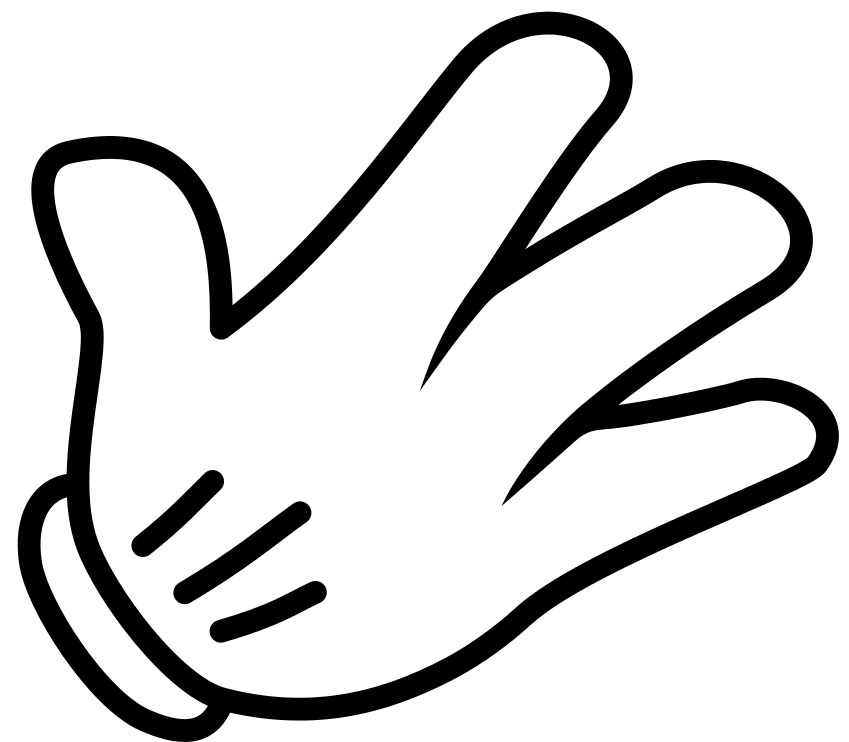
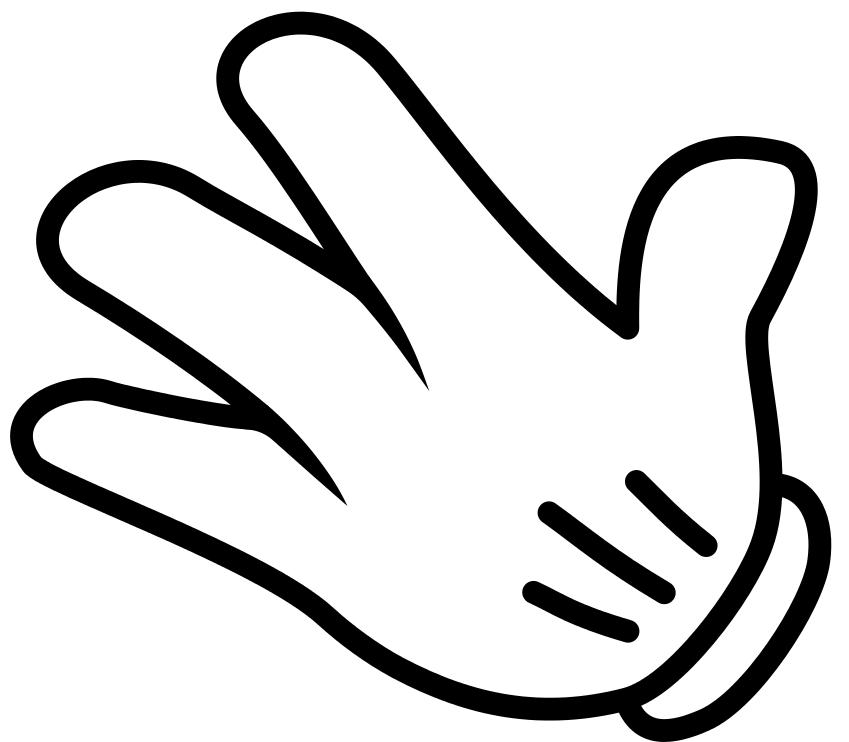
Add more UI elements
I've cleaned up the code and added some picture
elements that also help the games readability when
playing.

I've also changed the layout a little bit.

Changed region(s): [[0.0, 0.0, 1.0, 1.0], [0.5819, 0.6509, 0.6125, 0.6819]]

diff --git a/index.js b/index.js
@@ -6,24 +6,36 @@ let playerWins = 0;
 let compWins = 0;
 let ties = 0;
 let result = '';
+let leftHand = document.querySelector('#leftHand');
+let rightHand = document.querySelector('#rightHand');
 
 function playRound(input) {
     function getComputerChoice() {
         function getRandomInt(max) {
             return Math.floor(Math.random()*max);
         }
-
-        let randomInt = getRandomInt(3);
-                
+        let randomInt = getRandomInt(3); 
         if (randomInt === 0) {
             computerChoice = 'rock';
+            rightHand.src = './imgs/rockhand.png';
         } else if (randomInt === 1) {
             computerChoice = 'paper';
+            rightHand.src = './imgs/paperhand.png';
         } else {
             computerChoice = 'scissors';
+            rightHand.src = './imgs/scissorshand.png';
         }
         return computerChoice;
     }
+
+    if (input == 'rock') {
+        leftHand.src = './imgs/rockhand.png';
+    } else if (input == 'paper') {
+        leftHand.src = './imgs/paperhand.png';
+    } else {
+        leftHand.src = './imgs/scissorshand.png';
+    }
+
     let x = getComputerChoice();
     let y = input;
     let result = y+x;
@@ -32,28 +44,33 @@ function playRound(input) {
     if (result === 'rockscissors' || result === 'paperrock' || result === 'scissorspaper') {
         winner = 'You won!';
         playerWins++;
+        finalResult.textContent = winner;
     } else if (result === 'rockpaper' || result === 'paperscissors' || result === 'scissorsrock') {
         winner = 'You lost.';
         compWins++;
+        finalResult.textContent = winner;
     } else {
         winner = 'A tie!';
         ties++;
-    }
+        finalResult.textContent = winner;
+    };
 
     if (playerWins == 5 || compWins == 5) {
         if (playerWins > compWins) {
             result = 'Congratulations! You won the game ' + playerWins + ' to ' + compWins + ' with ' + ties + ' ties';
+            leftHand.src = './imgs/win.png';
+            rightHand.src = './imgs/win.png';
             } else if (compWins > playerWins) {
-            result = 'Commiserations. You lost the game ' + compWins + ' to ' + playerWins + ' with ' + ties + ' ties';
-            } else {
-            result = 'Wow, a tie! ' + playerWins + ' to ' + compWins + ' with ' + ties + ' ties';
+            result = 'Commiserations. You lost the game ' + playerWins + ' to ' + compWins + ' with ' + ties + ' ties';
+            leftHand.src = './imgs/loss.png';
+            rightHand.src = './imgs/loss.png';
             }
         playerWins = 0;
         compWins = 0;
         ties = 0;
         return gameWinner.textContent = result;
     };
-    return finalResult.textContent = winner;
+    return
 }
 
 buttons.forEach((button) => {
@@ -62,8 +79,3 @@ buttons.forEach((button) => {
         playRound(button.id);
     });
 });
-
-// I also want to add small animations. When I click a button to start a round, I want the little hands to appear
-// like a virtual game of RPS, and show what you and the computer picked. I'd also like to add some kind of funny
-// image when you win, lose or draw. And then finally maybe some final screen when 5 rounds have been played and 
-// a winner decided.

diff --git a/index.css b/index.css
@@ -8,7 +8,7 @@ body {
     text-align: center;
     opacity: 0;
     transition: opacity 1s;
-    animation: fadeInAnimation ease 6s;
+    animation: fadeInAnimation ease 4s;
     animation-iteration-count: 1;
     animation-fill-mode: forwards;
 }
@@ -16,7 +16,7 @@ body {
 .headerTwo {
     text-align: center;
     opacity: 0;
-    animation: fadeInAnimation ease 6s;
+    animation: fadeInAnimation ease 4s;
     animation-iteration-count: 1;
     animation-fill-mode: forwards;
     animation-delay: 2s;
@@ -24,14 +24,20 @@ body {
 
 .container {
     display: flex;
+    flex: 0, 0, 0;
     gap: 20px;
-    justify-content: center;
+    justify-content: space-between;
     margin-top: 5%;
     opacity: 0;
-    animation: fadeInAnimation ease 6s;
+    animation: fadeInAnimation ease 4s;
     animation-iteration-count: 1;
     animation-fill-mode: forwards;
-    animation-delay: 5s;
+    animation-delay: 4s;
+}
+
+.buttonlist {
+    display: flex;
+    justify-content: center;
 }
 
 button {
@@ -59,6 +65,24 @@ button:hover {
 #gameWinner {
     text-align: center;
     margin: 30px;
+}
+
+#ok {
+    text-align: center;
+    margin: 30px;
+}
+
+#leftHand {
+    transform: scalex(-1);
+    margin-left: 400px;
+    width: 200px;
+    height: auto;
+}
+
+#rightHand {
+    margin-right: 400px;
+    width: 200px;
+    height: auto;
 }
 
 @keyframes fadeInAnimation {

diff --git a/index.html b/index.html
@@ -10,14 +10,25 @@
 <body>
     <h1 class="header">THIS IS ROCK-PAPER-SCISSORS!</h1>
     <h2 class="headerTwo">Make your choice. First to 5 is the winner.</h2>
+
     <div class="container">
-        <button id='rock'>Rock</button>
-        <button id='paper'>Paper</button>
-        <button id='scissors'>Scissors</button>
+        <div class='leftHand'>
+            <img id='leftHand' src='./imgs/rockhand.png' alt='Hand'>
+        </div>
+        <div class='wrapper'>
+            <div class='buttonlist'>
+                <button id='rock'>Rock</button>
+                <button id='paper'>Paper</button>
+                <button id='scissors'>Scissors</button>
+            </div>
+        <div id='selectors'></div>
+        <div id='winner'></div>
+        </div>
+        <div class='rightHand'>
+            <img id='rightHand' src='./imgs/rockhand.png' alt='Hand'>
+        </div>
     </div>
 
-    <div id='selectors'></div>
-    <div id='winner'></div>
     <div id="gameWinner"></div>
 </body>
 </html>
